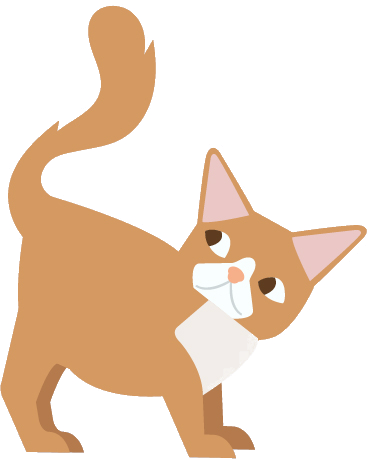
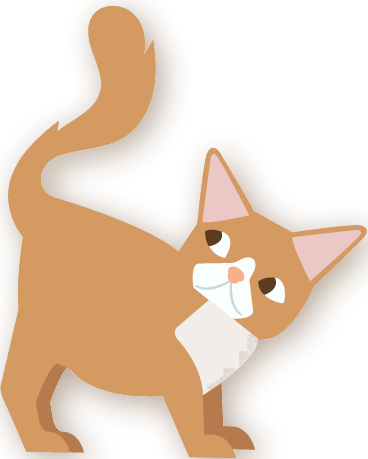
Add shadows on all cat decorations and add them all to the homepage

diff --git a/src/app/pages/home/components/home.js b/src/app/pages/home/components/home.js
@@ -24,8 +24,9 @@ export default function Home({books}) {
   return (
     <div className={styles.wall}>
       <Bookshelf title="Book reviews" key="1">
-        {renderDecoration("hangingCat")}
+        {renderDecoration("cat2")}
         {renderBook("dawn-of-the-dumb")}
+        {renderDecoration("hangingCat")}
         {renderBook("the-luminaries")}
         {renderBook("our-super-adventure")}
       </Bookshelf>
